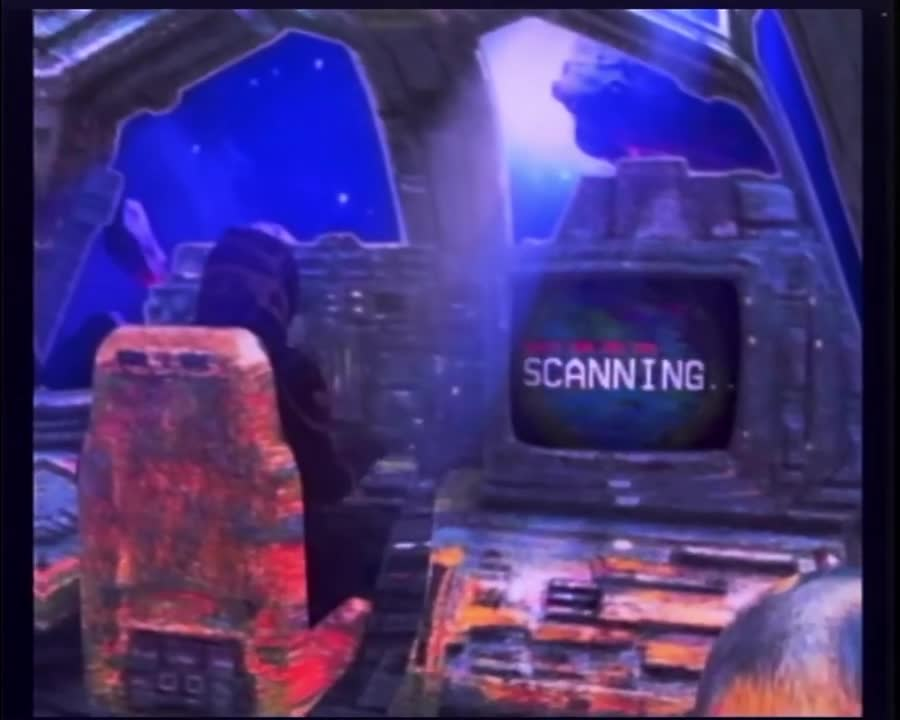
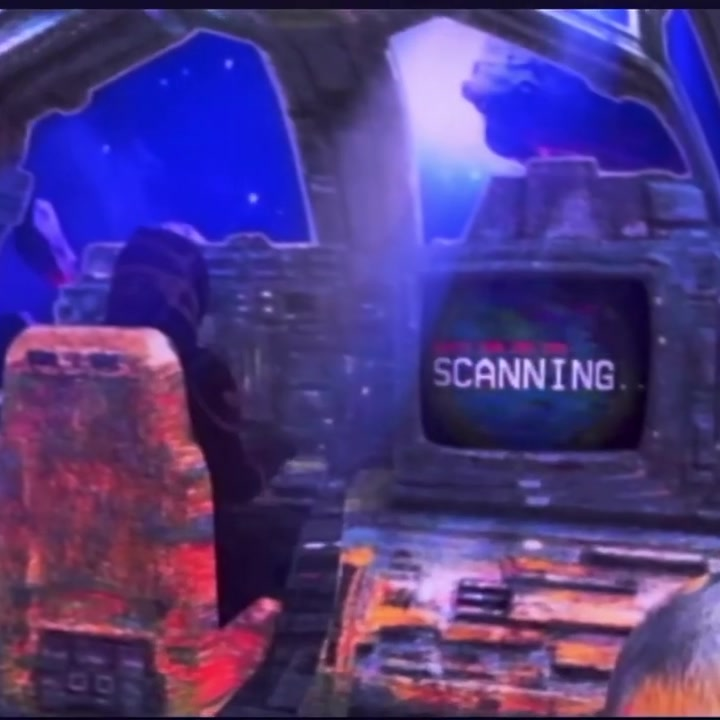
Original Copy: 12 square frames, no repetition of hero image

diff --git a/src/data/projects/analog/original-copy.js b/src/data/projects/analog/original-copy.js
@@ -32,14 +32,22 @@ Projekt byl obhájen v roce 2023 jako bakalářská práce na Filmové a televiz
     budget: 'N/A',
     timeline: '2023',
 
-    image: '/projects/original-copy/frame_03.jpg',
+    // Use grid layout for square frames
+    galleryLayout: 'grid',
+
+    image: '/projects/original-copy/frame_05.jpg',
     images: [
         '/projects/original-copy/frame_01.jpg',
         '/projects/original-copy/frame_02.jpg',
         '/projects/original-copy/frame_03.jpg',
         '/projects/original-copy/frame_04.jpg',
-        '/projects/original-copy/frame_05.jpg',
         '/projects/original-copy/frame_06.jpg',
+        '/projects/original-copy/frame_07.jpg',
+        '/projects/original-copy/frame_08.jpg',
+        '/projects/original-copy/frame_09.jpg',
+        '/projects/original-copy/frame_10.jpg',
+        '/projects/original-copy/frame_11.jpg',
+        '/projects/original-copy/frame_12.jpg',
     ],
     thumbs: [],
 
